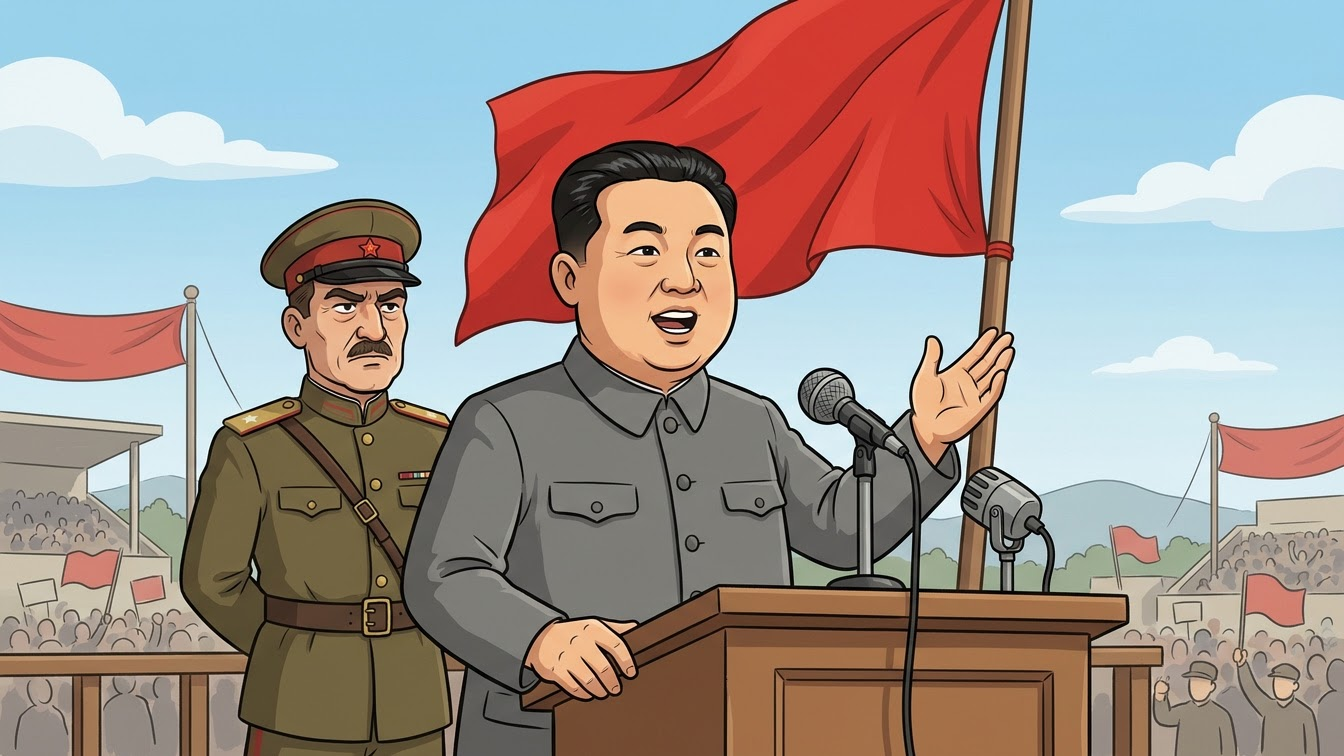
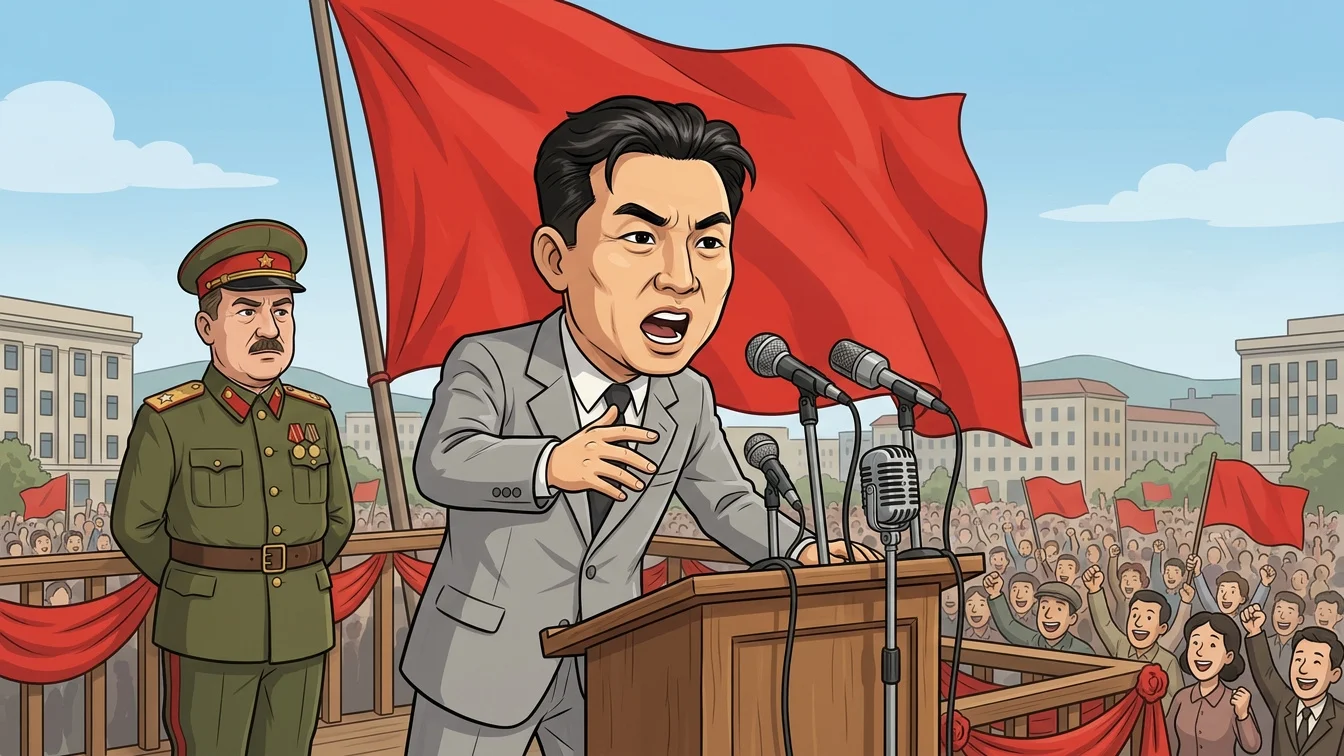
EP001 fixes: bottom titles moved clear of captions, stacked labels spaced, Kim Il Sung picture redrawn, MacArthur in chapter names
Claude-Session: https://claude.ai/code/session_01GabrpkQ4c1hytEBT1XEwPi

diff --git a/tools/assemble.py b/tools/assemble.py
@@ -57,6 +57,7 @@ def wav_seconds(path: Path) -> float:
         return w.getnframes() / w.getframerate()
 
 
+NAME_CASE = {"macarthur": "MacArthur", "ussr": "USSR", "un": "UN", "us": "US", "dmz": "DMZ", "uss": "USS"}
 SMALL_WORDS = {"a", "an", "and", "as", "at", "but", "by", "for", "in", "of", "on", "or", "the", "to", "vs"}
 
 
@@ -64,7 +65,10 @@ def chapter_case(text: str) -> str:
     """Title Case for chapter names without str.title()'s bugs ("Yamamoto'S", "O'Clock" stays "O'clock")."""
     out = []
     for i, w in enumerate(text.lower().split()):
-        if any(ch.isdigit() for ch in w) or "." in w.rstrip("."):
+        core = w.strip("\"'?!,.:;")
+        if core in NAME_CASE:
+            out.append(w.replace(core, NAME_CASE[core]))
+        elif any(ch.isdigit() for ch in w) or "." in w.rstrip("."):
             out.append(w.upper())  # times and abbreviations: 7:55 A.M.
         elif i and w in SMALL_WORDS:
             out.append(w)
